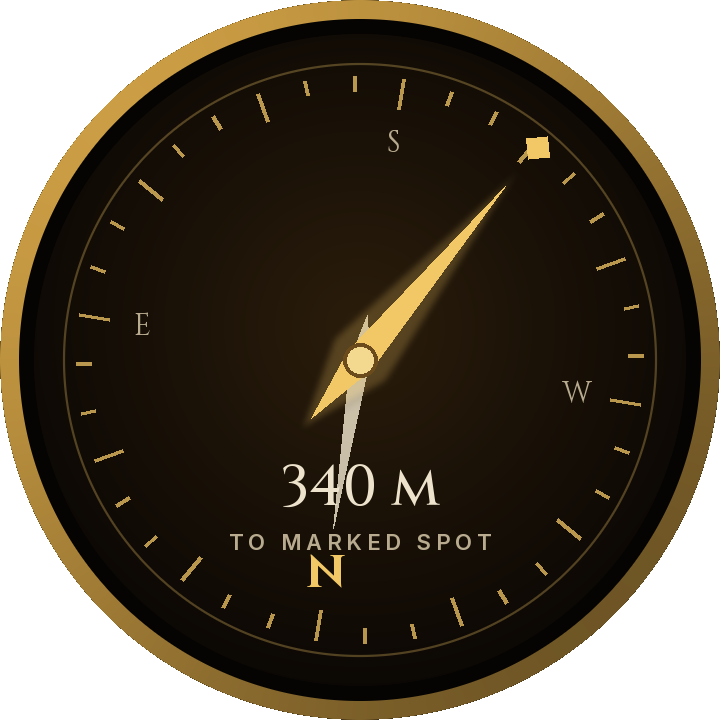
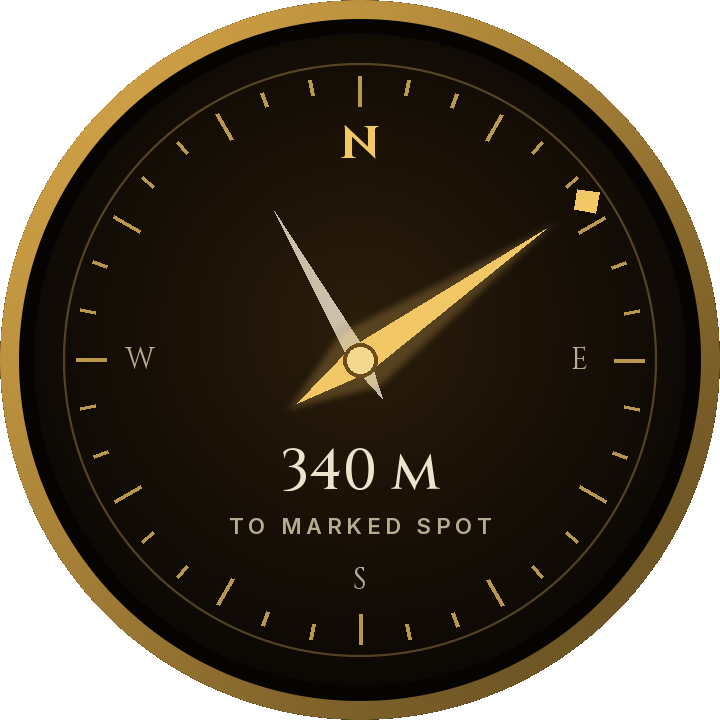
Compass: fixed dial with N at the top, as in the concept
Only the spindles turn now (thin = north, gold = station). Updated preview.
Version 0.2.2.

Claude-Session: https://claude.ai/code/session_01NMCgoezPd53wTYz6APp8XK

diff --git a/firmware/main/ui_compass.c b/firmware/main/ui_compass.c
@@ -3,7 +3,7 @@
  *
  *  - gold rim, dark warm radial background, faint glow ring (drawn once
  *    into an image at start-up, with dithering so the gradient doesn't band)
- *  - a dial with 36 ticks and N / E / S / W that turns so N points north
+ *  - a fixed dial (N at the top) with 36 ticks, as in the concept
  *  - thin cream spindle   -> north
  *  - gold glowing spindle -> the station (or a marked spot); with no station
  *    it rests on north
@@ -159,7 +159,8 @@ static void draw_cb(lv_event_t *e)
     lv_layer_t *L = lv_event_get_layer(e);
     const float north = -s_heading;          /* where north is on screen */
 
-    /* 36 ticks; longer every 30 degrees */
+    /* Fixed dial, like the concept: N at the top, 36 ticks, longer every 30 deg.
+     * Only the spindles turn. */
     lv_draw_line_dsc_t ln;
     lv_draw_line_dsc_init(&ln);
     ln.color = lv_color_hex(C_GLOW);
@@ -167,16 +168,16 @@ static void draw_cb(lv_event_t *e)
     ln.width = 4;
     ln.round_start = ln.round_end = 1;
     for (int i = 0; i < 36; i++) {
-        float a = north + i * 10;
+        float a = i * 10;
         pt(&ln.p1, a, (i % 3 == 0) ? 254 : 269);
         pt(&ln.p2, a, 284);
         lv_draw_line(L, &ln);
     }
 
-    letter(L, "N", &font_cinzel_bold_46, C_GLOW,  north,       216);
-    letter(L, "E", &font_cinzel_30,      C_MUTED, north + 90,  220);
-    letter(L, "S", &font_cinzel_30,      C_MUTED, north + 180, 220);
-    letter(L, "W", &font_cinzel_30,      C_MUTED, north + 270, 220);
+    letter(L, "N", &font_cinzel_bold_46, C_GLOW,  0,   216);
+    letter(L, "E", &font_cinzel_30,      C_MUTED, 90,  220);
+    letter(L, "S", &font_cinzel_30,      C_MUTED, 180, 220);
+    letter(L, "W", &font_cinzel_30,      C_MUTED, 270, 220);
 
     /* diamond on the ring marking the station direction */
     lv_point_precise_t a, b, c, d;

diff --git a/firmware/README.md b/firmware/README.md
@@ -5,7 +5,7 @@ Built and checked with **ESP-IDF v6.1** (target `esp32p4`). It compiles cleanly,
 
 ## What it does
 - **Compass screen**, styled like the concept renderings:
-  - The dial turns so **N** points north. The thin cream spindle points north too.
+  - A fixed dial with **N at the top**, as in the concept. Only the spindles turn: the thin cream spindle points north.
   - The **gold spindle** points to the station. With no station set, it rests near north and drifts gently.
   - With a station, the distance shows in the middle ("340 m"); without one, the heading.
   - **Press and hold anywhere** to open the self-test.
